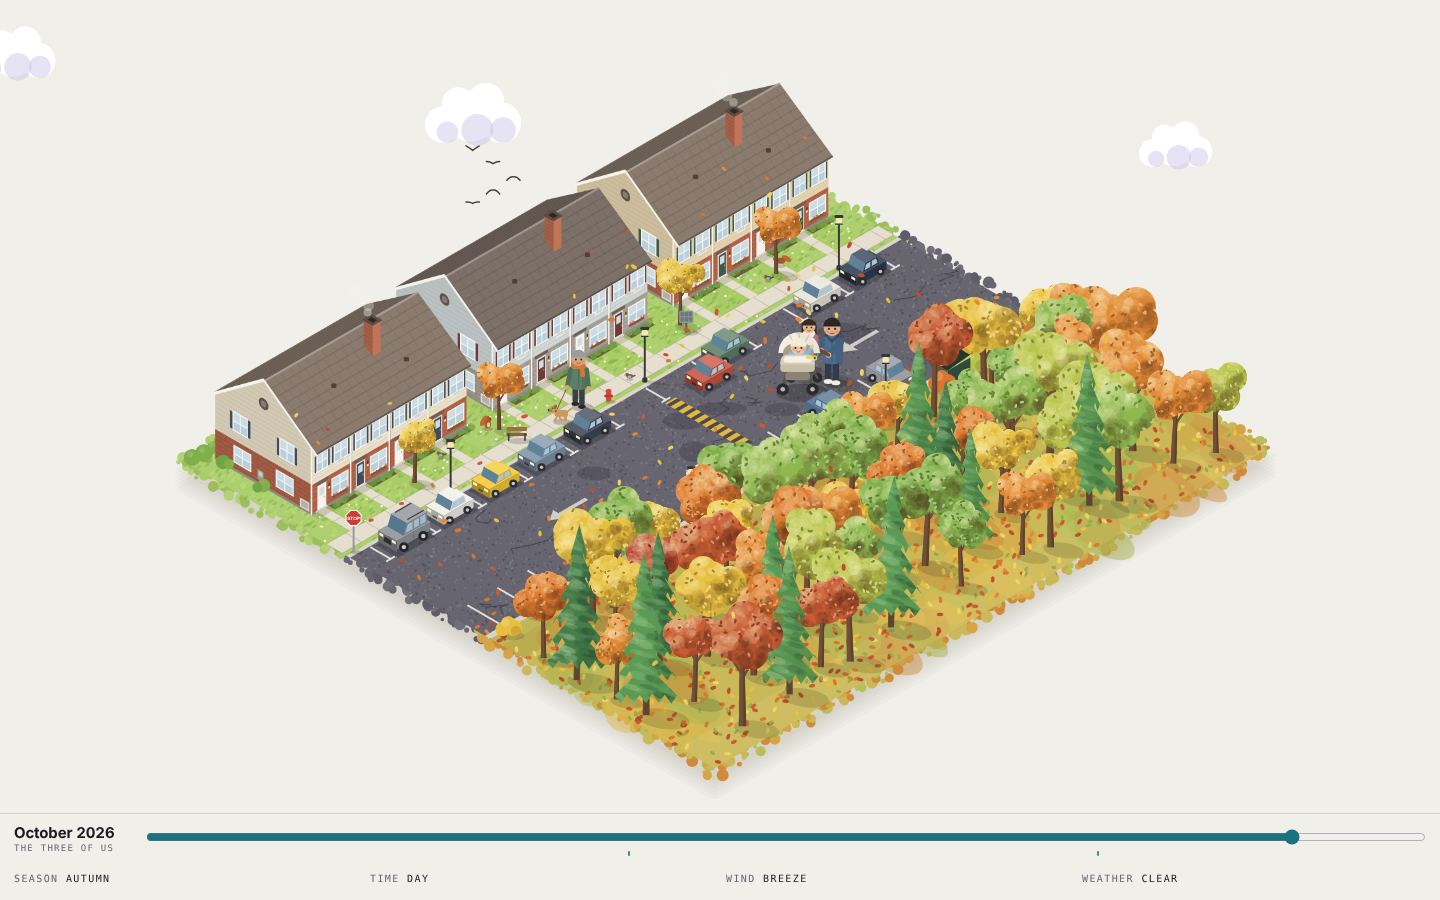
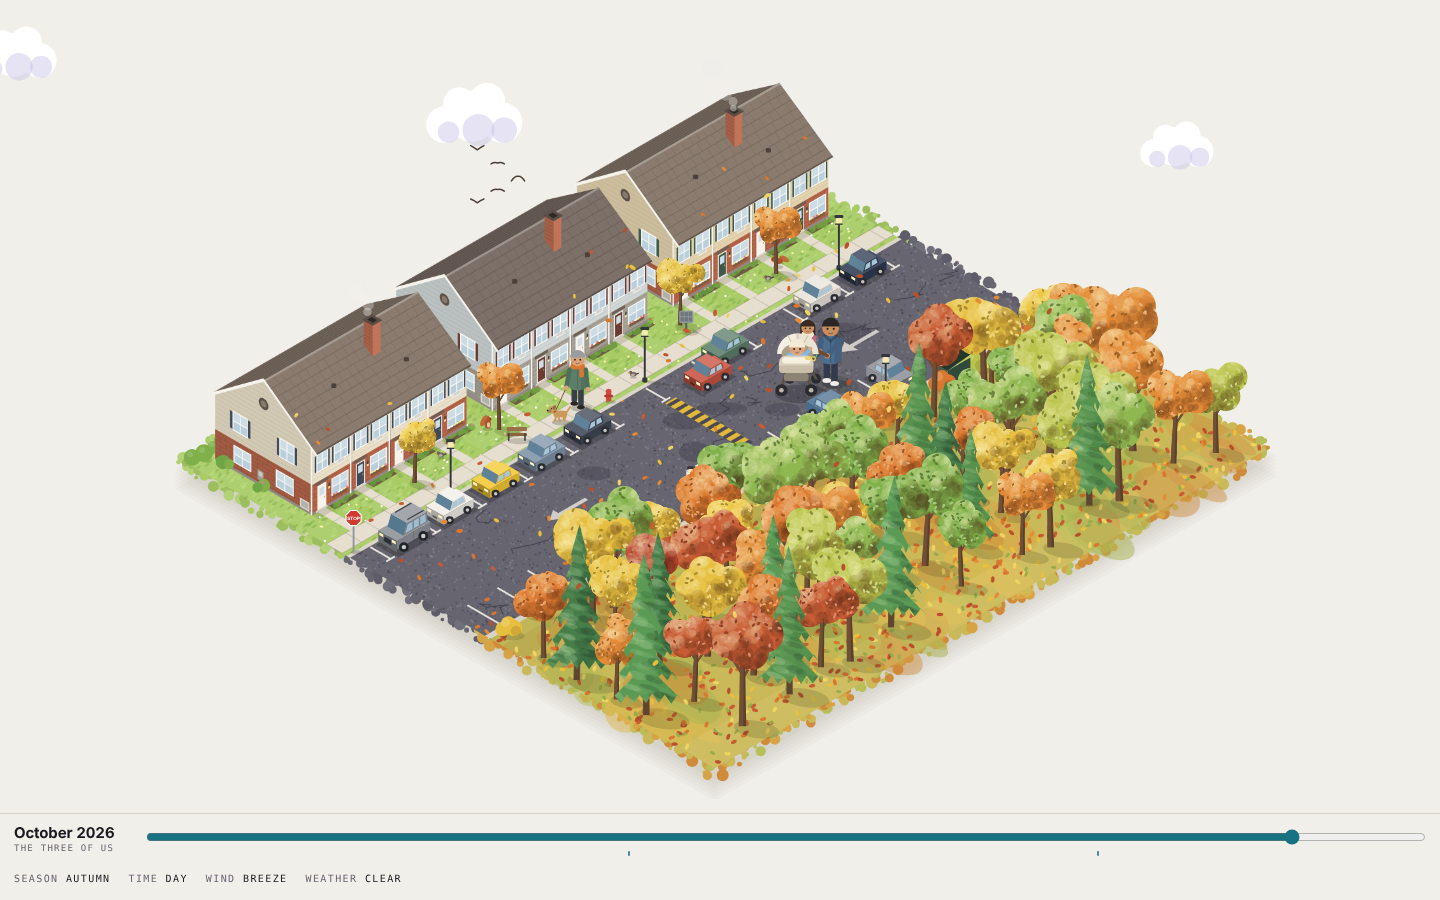
Family Walks: zoom in Fullscreen, warmer skin tones, options back to natural spacing
Pinch, drag and wheel zoom work only while the stage is in Fullscreen,
and the view resets on exit. The four scene options go back to sitting
together on the left.

Claude-Session: https://claude.ai/code/session_011EQsuwANrhnK2GngF9UdEK

diff --git a/src/content/experiments/family-walks/scene.js b/src/content/experiments/family-walks/scene.js
@@ -17,12 +17,12 @@ const STYLE = `
 .fw-track{position:relative;flex:1;min-width:0;padding-bottom:7px}
 .fw-track input{display:block;width:100%;height:24px;margin:0;background:transparent;accent-color:var(--accent)}
 .fw-tick{position:absolute;bottom:0;width:2px;height:5px;border-radius:1px;background:var(--accent);opacity:.8;pointer-events:none}
-.fw-opts{display:grid;grid-template-columns:repeat(4,minmax(0,1fr));gap:0 12px}
-.fw-opts button{min-height:36px;padding:0;text-align:left;white-space:nowrap;border:0;background:none;font:inherit;letter-spacing:inherit;text-transform:inherit;color:var(--muted);cursor:pointer}
+.fw-opts{display:flex;flex-wrap:wrap;gap:0 18px}
+.fw-opts button{min-height:36px;padding:0;white-space:nowrap;border:0;background:none;font:inherit;letter-spacing:inherit;text-transform:inherit;color:var(--muted);cursor:pointer}
 .fw-opts b{font-weight:500;color:var(--fg)}
 .fw-opts button:hover b{color:var(--accent)}
 .fw button:focus-visible,.fw input:focus-visible{outline:2px solid var(--accent);outline-offset:2px}
-@media (max-width:640px){.fw-ctl{padding:6px 10px 2px}.fw-row{gap:8px}.fw-when{min-width:0}.fw-date{font-size:13px}.fw .fw-opts{gap:0 6px;font-size:9px;letter-spacing:.04em}}
+@media (max-width:640px){.fw-ctl{padding:6px 10px 2px}.fw-row{gap:8px}.fw-when{min-width:0}.fw-date{font-size:13px}.fw .fw-opts{gap:0 10px;font-size:9.5px;letter-spacing:.06em}}
 `;
 
 const MARKUP = `
@@ -1660,7 +1660,7 @@ export function startScene(stage) {
     legs: '#333a4b',
     shoes: '#f1eee8',
     hair: '#2b2624',
-    skin: '#dfae84',
+    skin: '#c8905f',
     long: false,
     scarf: null,
   };
@@ -1671,7 +1671,7 @@ export function startScene(stage) {
     legs: '#4a4f63',
     shoes: '#2b2624',
     hair: '#3a2a22',
-    skin: '#e6b990',
+    skin: '#cf9968',
     long: true,
     scarf: '#f1e8d6',
   };
@@ -2048,8 +2048,8 @@ export function startScene(stage) {
     ell(g, 0.5, -22, 9.4, 6.4, '#a99d87');
     rr(g, -6, -23, 13, 7, 3.2, '#7fb8ea');
     seg(g, 5.2, -21, 8.6, -26 + Math.sin(ph) * 1.2, '#7fb8ea', 2.1);
-    circ(g, 8.6, -26 + Math.sin(ph) * 1.2, 1.2, '#edc4a2');
-    circ(g, 0.5, -25.6, 4.7, '#edc4a2');
+    circ(g, 8.6, -26 + Math.sin(ph) * 1.2, 1.2, '#dcaa80');
+    circ(g, 0.5, -25.6, 4.7, '#dcaa80');
     g.beginPath();
     g.arc(0.5, -26.3, 4.95, Math.PI * 0.98, Math.PI * 2.02);
     g.closePath();
@@ -2194,7 +2194,7 @@ export function startScene(stage) {
       seg(g, bx - 2 * sw, byy + 3.6 * sw, bx + 8.6 * sw, byy + 0.2 * sw, '#cfe6f8', 1.1 * sw);
       var hx0 = bx - 7.4 * sw,
         hy0 = byy - 3.4 * sw;
-      circ(g, hx0, hy0, 4.5 * sw, '#edc4a2');
+      circ(g, hx0, hy0, 4.5 * sw, '#dcaa80');
       g.beginPath();
       g.arc(hx0, hy0 - 0.5 * sw, 4.8 * sw, Math.PI * 0.95, Math.PI * 1.98);
       g.closePath();
@@ -3882,10 +3882,111 @@ export function startScene(stage) {
       n++;
     }
   }
-  canvas.addEventListener('click', function (ev) {
+  /* In Fullscreen the scene can be pinched, dragged and wheel-zoomed. On the page it stays put, so scrolling past it works. */
+  var ptrs = {},
+    moved = 0,
+    pinch = null;
+  function isFs() {
+    return stage.classList.contains('fs');
+  }
+  function clampView() {
+    view.cx = clamp(view.cx, W * 0.12, W * 0.88);
+    view.cy = clamp(view.cy, H * 0.1, H * 0.9);
+  }
+  function local(ev) {
     var rc = canvas.getBoundingClientRect();
-    tapAt(ev.clientX - rc.left, ev.clientY - rc.top);
+    return [ev.clientX - rc.left, ev.clientY - rc.top];
+  }
+  function pts() {
+    var a = [];
+    for (var k in ptrs) a.push(ptrs[k]);
+    return a;
+  }
+  canvas.addEventListener('pointerdown', function (ev) {
+    ptrs[ev.pointerId] = local(ev);
+    var a = pts();
+    if (a.length === 1) moved = 0;
+    if (!isFs()) return;
+    try {
+      canvas.setPointerCapture(ev.pointerId);
+    } catch {
+      /* some pointers can't be captured */
+    }
+    if (a.length === 2) {
+      pinch = {
+        d: Math.hypot(a[0][0] - a[1][0], a[0][1] - a[1][1]) || 1,
+        z: view.z,
+        anchor: toLogical((a[0][0] + a[1][0]) / 2, (a[0][1] + a[1][1]) / 2),
+      };
+      moved = 99;
+    }
   });
+  canvas.addEventListener('pointermove', function (ev) {
+    var p = ptrs[ev.pointerId];
+    if (!p) return;
+    var q = local(ev),
+      dx = q[0] - p[0],
+      dy = q[1] - p[1];
+    ptrs[ev.pointerId] = q;
+    moved += Math.abs(dx) + Math.abs(dy);
+    if (!isFs()) return;
+    var a = pts();
+    if (a.length === 1 && moved > 8) {
+      view.cx -= dx / view.z;
+      view.cy -= dy / view.z;
+      view.touched = true;
+      clampView();
+    } else if (a.length === 2 && pinch) {
+      var mx = (a[0][0] + a[1][0]) / 2,
+        my = (a[0][1] + a[1][1]) / 2,
+        d = Math.hypot(a[0][0] - a[1][0], a[0][1] - a[1][1]) || 1;
+      view.z = clamp((pinch.z * d) / pinch.d, view.zMin, view.zMax);
+      view.cx = pinch.anchor[0] - (mx - cssW / 2) / view.z;
+      view.cy = pinch.anchor[1] - (my - ucy) / view.z;
+      view.touched = true;
+      clampView();
+    }
+    if (!running) drawOnce();
+  });
+  function pointerEnd(ev) {
+    delete ptrs[ev.pointerId];
+    pinch = null;
+  }
+  canvas.addEventListener('pointerup', pointerEnd);
+  canvas.addEventListener('pointercancel', pointerEnd);
+  canvas.addEventListener('click', function (ev) {
+    if (moved > 8) return;
+    var q = local(ev);
+    tapAt(q[0], q[1]);
+  });
+  canvas.addEventListener(
+    'wheel',
+    function (ev) {
+      if (!isFs()) return;
+      ev.preventDefault();
+      var q = local(ev),
+        an = toLogical(q[0], q[1]);
+      view.z = clamp(view.z * Math.exp(-ev.deltaY * 0.0015), view.zMin, view.zMax);
+      view.cx = an[0] - (q[0] - cssW / 2) / view.z;
+      view.cy = an[1] - (q[1] - ucy) / view.z;
+      view.touched = true;
+      clampView();
+      if (!running) drawOnce();
+    },
+    { passive: false },
+  );
+  /* entering Fullscreen turns the gestures on; leaving it puts the whole scene back in view */
+  var fsWatch = new MutationObserver(function () {
+    var fs = isFs();
+    canvas.style.touchAction = fs ? 'none' : '';
+    canvas.style.cursor = fs ? 'grab' : '';
+    if (!fs && view.touched) {
+      view.touched = false;
+      resize();
+      if (!running) drawOnce();
+    }
+  });
+  fsWatch.observe(stage, { attributes: true, attributeFilter: ['class'] });
 
   KS = 1.6;
   var running = false,
@@ -3926,6 +4027,7 @@ export function startScene(stage) {
       running = false;
       cancelAnimationFrame(raf);
       ro.disconnect();
+      fsWatch.disconnect();
       timers.forEach(function (t) {
         clearTimeout(t);
       });
